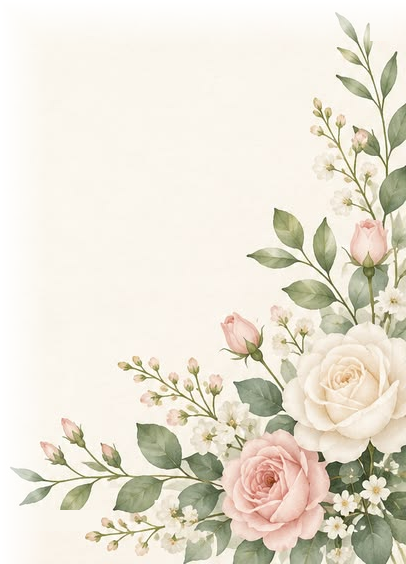
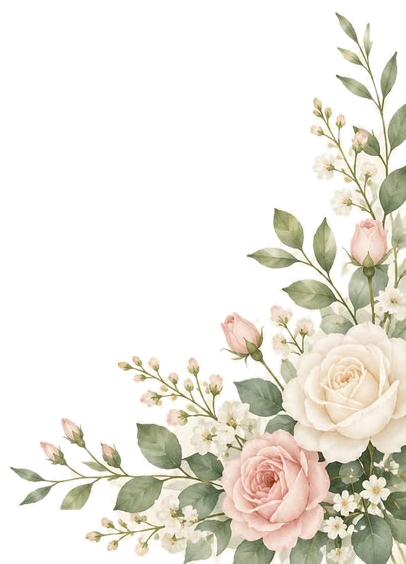
Add files via upload

diff --git a/index.html b/index.html
@@ -50,8 +50,8 @@ body{display:flex;align-items:center;justify-content:center;font-family:"Cormora
 </head>
 <body>
 <section class="card" id="card">
-  <img class="fl fl-tl" src="flowers-tl.png" alt="">
-  <img class="fl fl-br" src="flowers-br.png" alt="">
+  <img class="fl fl-tl" src="flowers-tl.png?v=4" alt="">
+  <img class="fl fl-br" src="flowers-br.png?v=4" alt="">
   <div class="content">
     <div>
       <svg class="sprig" viewBox="0 0 24 24"><path d="M12 22V9M12 14c-4 0-6-2-6-5 4 0 6 2 6 5zM12 14c4 0 6-2 6-5-4 0-6 2-6 5zM12 9c-2-1-2-4 0-6 2 2 2 5 0 6z"/></svg>
